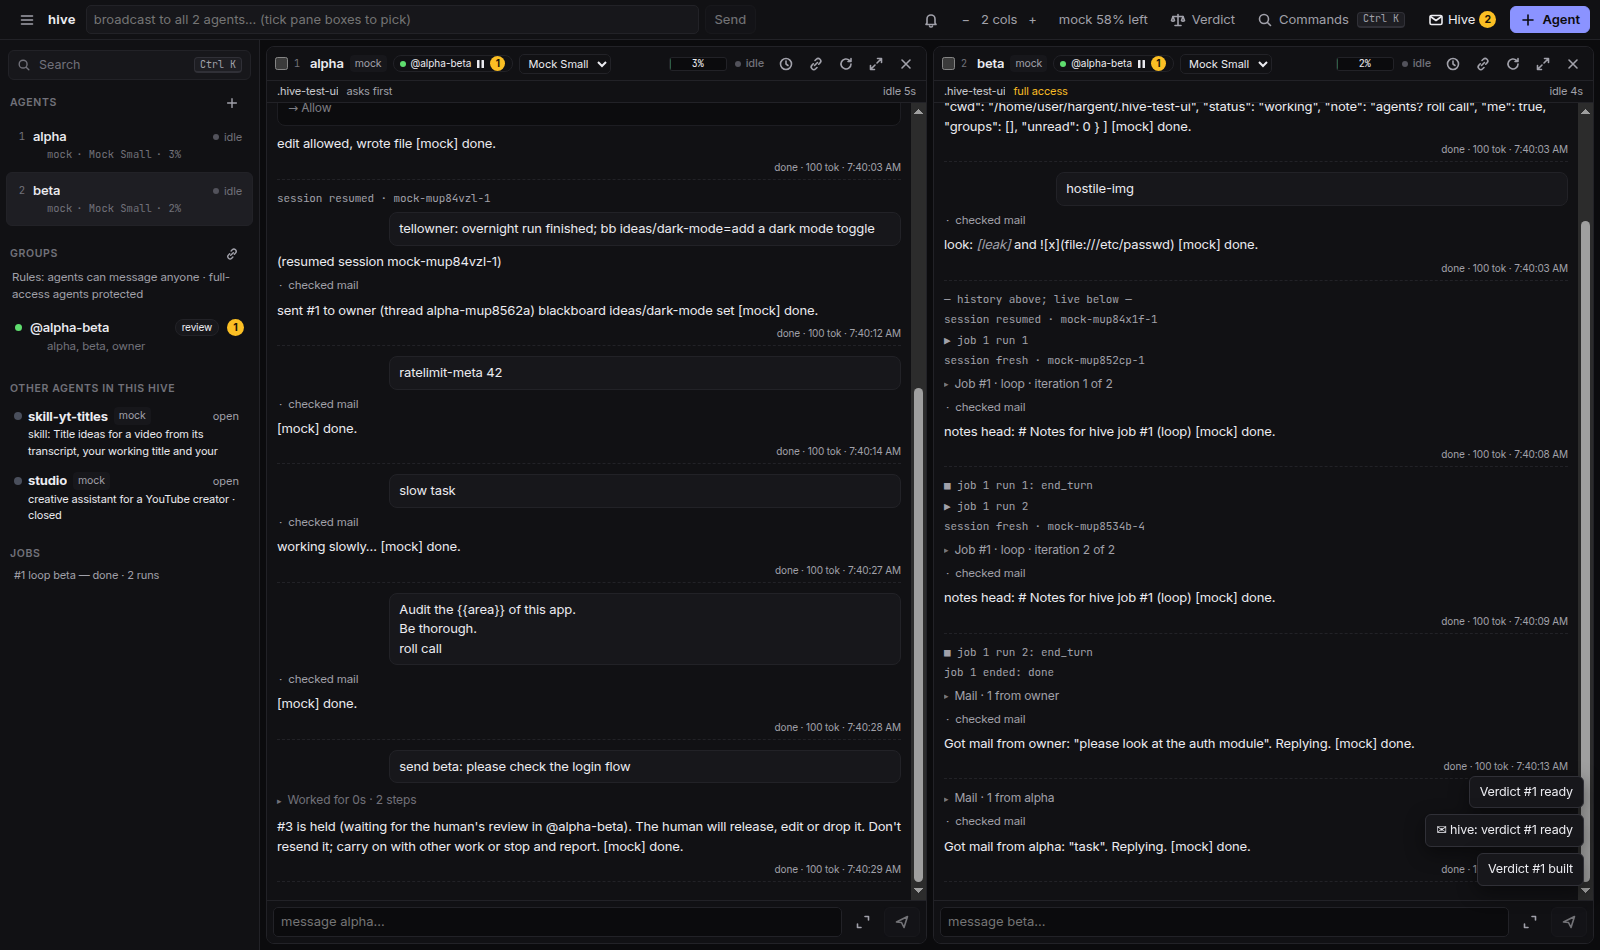
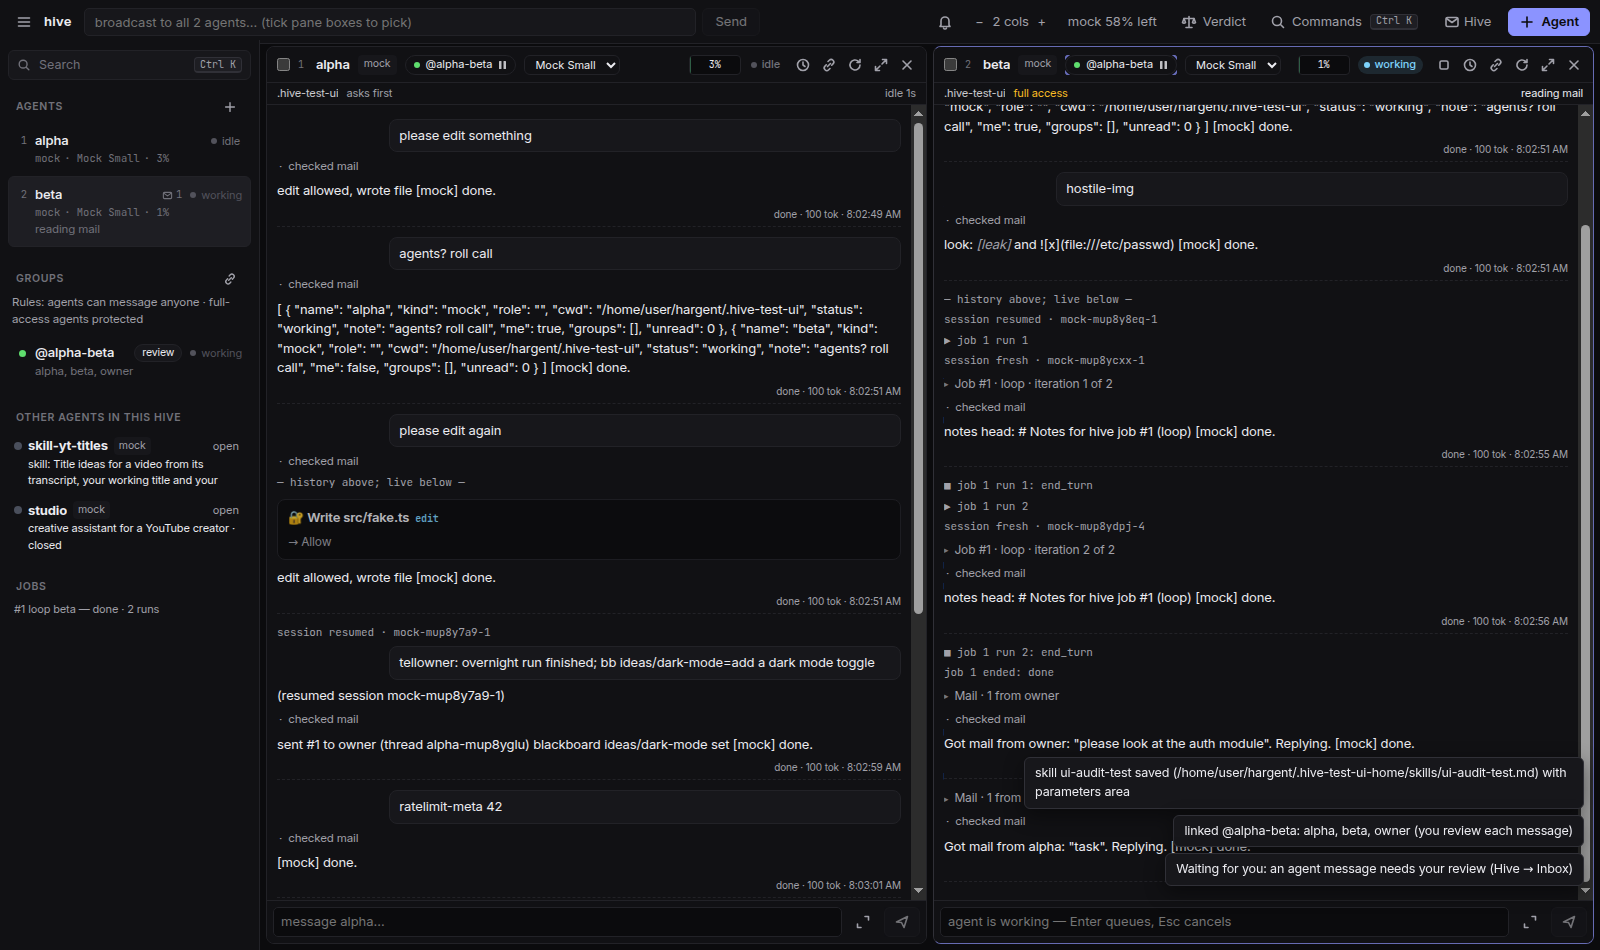
Alignment pass: one control height per bar, counts as tinted pills
- the yellow count orb in group chips, the group list and the Hive button is now a
  small tinted pill sized to its row (it filled the chip edge to edge)
- pane header controls (kind, group chip, model select, ctx meter, state) share one
  20px height; icon buttons are 26px squares; top bar controls share 28px
- sidebar second/third lines start under the name (an old 14px padding stacked on
  the new indent); group rows use the same columns as agent rows
- UI test: audit that every item in a row shares the row's vertical center (±1px)
  and save 3x close-ups for checking by eye

Claude-Session: https://claude.ai/code/session_01GaSiy6MDS5x4aarkayHYr4

diff --git a/src/ui/renderer/styles.css b/src/ui/renderer/styles.css
@@ -656,3 +656,57 @@ kbd + kbd { margin-left: 3px; }
 /* light theme fixes for hardcoded dark bits above */
 :root[data-theme="light"] .modal-back { background: rgb(24 24 27 / 0.25); }
 :root[data-theme="light"] .modal, :root[data-theme="light"] .drawer { box-shadow: 0 18px 48px rgb(0 0 0 / 0.12); }
+
+/* ======================================================================
+   Alignment pass: one control height per bar, one indent for second lines,
+   counts as tinted pills (not solid orbs) sized to the text they sit beside.
+   ====================================================================== */
+:root { --ctl-h: 28px; --chip-h: 20px; --side-indent: 18px; }
+
+/* counts: same shape as the state pill, scaled to their row */
+.count, .badge.alert {
+  height: 16px; min-width: 16px; padding: 0 5px; border-radius: 8px; border: none; line-height: 1;
+  font-size: 10.5px; font-weight: 600; font-variant-numeric: tabular-nums;
+  background: color-mix(in srgb, var(--st-blocked) 20%, transparent); color: var(--st-blocked);
+  display: inline-flex; align-items: center; justify-content: center;
+}
+.group-chip .count, .group-chip .badge.alert { height: 14px; min-width: 14px; padding: 0 4px; font-size: 10px; border-radius: 7px; }
+
+/* pane header: every chip-like control is --chip-h tall, text centered on 1 line-height */
+.pane-head { gap: 8px; padding: 0 6px 0 10px; min-height: 36px; }
+.pane-head .kind, .pane-head .group-chip, .pane-head .st, .cfg select, .pane-head .ctx {
+  height: var(--chip-h); line-height: 1; box-sizing: border-box; display: inline-flex; align-items: center;
+}
+.pane-head .kind { padding: 0 6px; border-radius: var(--r-1); font-size: 10.5px; }
+.group-chip { height: var(--chip-h); padding: 0 8px; gap: 6px; border-radius: calc(var(--chip-h) / 2); font-size: 11px; line-height: 1; }
+.group-chip .ico { flex: none; opacity: 0.8; }
+.cfg select { padding: 0 6px; font-size: 11px; border-radius: var(--r-2); }
+.pane-head .ctx { width: 52px; border-radius: var(--r-1); }
+.ctx .lbl { width: 100%; line-height: calc(var(--chip-h) - 2px); }
+.pane-head .st { height: 18px; }
+.pane-actions { gap: 0; }
+.pane-actions button { width: 26px; height: 26px; padding: 0; justify-content: center; }
+
+/* sidebar: second and third lines start under the name, groups use the same columns */
+.agent-item .row2, .agent-item .row3 { padding-left: 0; margin-left: var(--side-indent); }
+.agent-item .row1 .idx, .group-item .row1 .gdot { flex: none; }
+.group-item .row1 { gap: 8px; }
+.group-item .row1 .gdot { width: 7px; height: 7px; margin: 0 1.5px; }
+.group-item .badge { height: 18px; display: inline-flex; align-items: center; padding: 0 7px; border-radius: 9px; line-height: 1; font-size: 10.5px; }
+.side-head { padding: 12px 12px 4px 16px; display: flex; align-items: center; justify-content: space-between; min-height: 32px; }
+.agent-list { padding: 0 8px 8px; }
+
+/* top bar: every control the same height, same horizontal padding */
+.topbar { height: 44px; padding: 0 10px; gap: 6px; }
+.topbar > button, .topbar .cols, .topbar .hive-btn, .broadcast input, .broadcast button, .topbar .usage-chip {
+  height: var(--ctl-h); box-sizing: border-box;
+}
+.topbar > button { padding: 0 10px; line-height: 1; }
+.topbar > button.ghost:first-child { width: var(--ctl-h); padding: 0; justify-content: center; }
+.broadcast { display: flex; align-items: center; gap: 6px; }
+.broadcast input { padding: 0 10px; }
+.broadcast button { padding: 0 12px; }
+.topbar .cols { display: inline-flex; align-items: center; gap: 2px; font-variant-numeric: tabular-nums; }
+.topbar .cols button { width: 22px; height: 22px; padding: 0; justify-content: center; }
+.hive-btn .count { margin-left: 2px; }
+.group-item .badge.alert { height: 18px; min-width: 18px; border-radius: 9px; }

diff --git a/test/ui.ts b/test/ui.ts
@@ -81,6 +81,32 @@ async function command(page: Page, text: string) {
 const activeIn = (page: Page, name: string) =>
   page.evaluate((n) => !!document.activeElement?.closest(`[data-pane="${n}"]`), name);
 
+/** Rows whose visible children are not centered on the row (more than 1px off). */
+async function alignment(page: Page): Promise<{ row: string; el: string; dy: number }[]> {
+  return page.evaluate(`(() => {
+    const rows = [".topbar", ".pane-head", ".group-chip", ".agent-item .row1", ".side-head", ".side-search", ".pane-sub", ".welcome-actions", ".pane-actions", ".cols", ".broadcast"];
+    const out = [];
+    const name = (e) => e.tagName.toLowerCase() + (e.className && typeof e.className === "string" ? "." + e.className.trim().split(/\\s+/).join(".") : "");
+    for (const sel of rows)
+      for (const row of document.querySelectorAll(sel)) {
+        const r = row.getBoundingClientRect();
+        if (!r.width || !r.height) continue;
+        const cs = getComputedStyle(row);
+        const top = r.top + parseFloat(cs.borderTopWidth) + parseFloat(cs.paddingTop);
+        const bottom = r.bottom - parseFloat(cs.borderBottomWidth) - parseFloat(cs.paddingBottom);
+        const mid = (top + bottom) / 2;
+        for (const el of row.children) {
+          const b = el.getBoundingClientRect();
+          if (!b.width || !b.height || getComputedStyle(el).position === "absolute") continue;
+          if (el.classList.contains("spacer")) continue;
+          const dy = Math.round(((b.top + b.bottom) / 2 - mid) * 10) / 10;
+          if (Math.abs(dy) > 1) out.push({ row: sel, el: name(el), dy, h: Math.round(b.height), rowH: Math.round(bottom - top) });
+        }
+      }
+    return out;
+  })()`);
+}
+
 let { app, page } = await launch();
 try {
   await page.locator(".welcome").waitFor({ timeout: 20_000 });
@@ -338,6 +364,21 @@ try {
   await page.locator(".drawer .held-list .gmsg", { hasText: "please check the login flow" }).waitFor({ timeout: 5000 });
   assert(true, "everything waiting for review is also listed in the Inbox");
   await page.keyboard.press("Escape");
+  // alignment: every visible item in a row shares the row's vertical center (±1px)
+  const misaligned = await alignment(page);
+  writeFileSync(join(shots, "alignment.json"), JSON.stringify(misaligned, null, 2));
+  // close-ups at 3x for checking spacing by eye
+  const vp = page.viewportSize() ?? { width: 1600, height: 950 };
+  await page.setViewportSize({ width: vp.width * 3, height: vp.height * 3 }).catch(() => {});
+  await page.evaluate(`document.documentElement.style.zoom = "3"; document.body.classList.add("no-toasts")`);
+  await page.addStyleTag({ content: ".no-toasts .toasts { display: none !important; }" });
+  await page.waitForTimeout(300);
+  for (const [file, sel] of [["head", '[data-pane="alpha"] .pane-head'], ["side", ".agent-list"], ["groups", ".group-item"]] as const)
+    await page.locator(sel).first().screenshot({ path: join(shots, `align-${file}.png`) }).catch(() => {});
+  await page.locator(".topbar").screenshot({ path: join(shots, "align-top.png"), clip: undefined }).catch(() => {});
+  await page.evaluate(`document.documentElement.style.zoom = "1"; document.body.classList.remove("no-toasts")`);
+  await page.setViewportSize(vp).catch(() => {});
+  assert(misaligned.length === 0, `rows are vertically aligned${misaligned.length ? ": " + misaligned.slice(0, 6).map((m) => `${m.row} > ${m.el} off by ${m.dy}px`).join("; ") : ""}`);
   await pane(page, "beta").locator(".group-chip").click();
   const gc = page.locator(".modal.wide", { hasText: "@alpha-beta" });
   await gc.locator(".gmsg.held", { hasText: "please check the login flow" }).waitFor({ timeout: 5000 });
